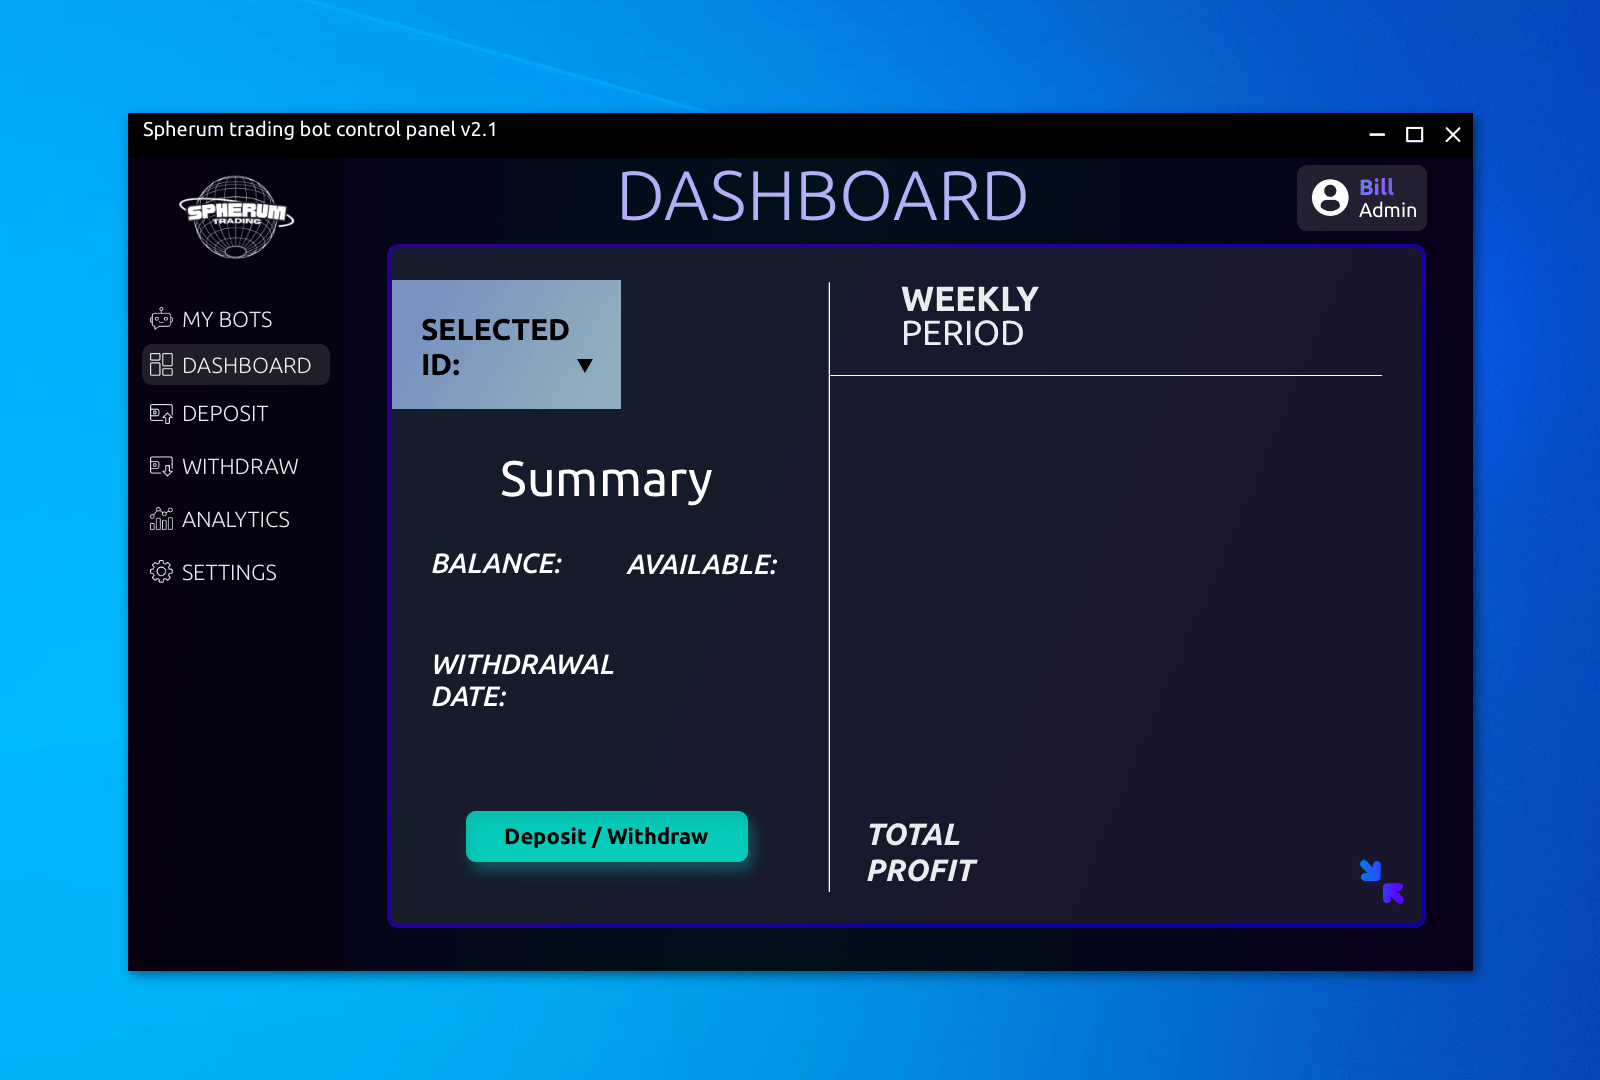
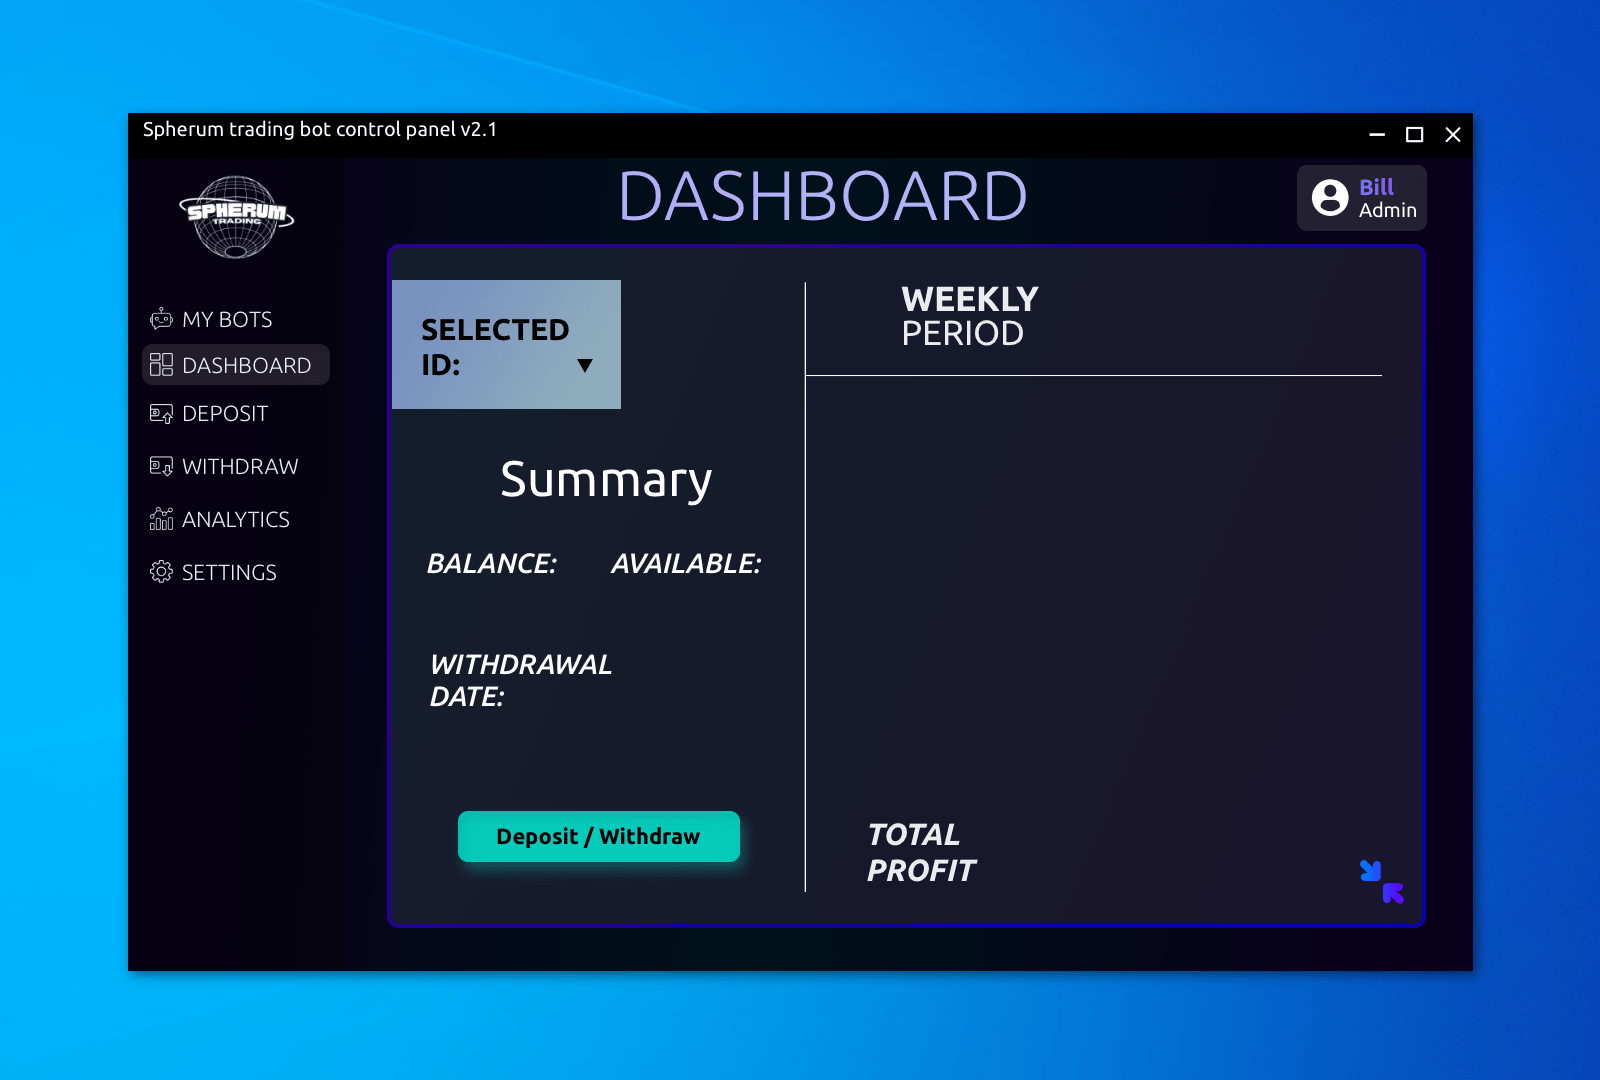
.

diff --git a/styles/bot.css b/styles/bot.css
@@ -76,7 +76,7 @@
 }
 .table {
     top: 370px;
-    left: 810px;
+    left: 805px;
     font-size: 28px;
 }
 table tr td {
@@ -91,7 +91,7 @@ table tr td {
 }
 /* Трейды  */
 .table tr > td:nth-child(2) {
-    padding-right: 20px;
+    padding-right: 30px;
     color: #C08AFF;
     font-weight: 700;
 }
@@ -126,19 +126,19 @@ table tr td {
 }
 .balance {
     top: 535px;
-    left: 385px;
+    left: 380px;
 }
 .available {
     top: 535px;
-    left: 580px;
+    left: 563px;
 }
 .withdraw_date {
     top: 675px;
-    left: 385px;
+    left: 380px;
 }
 .total_profit {
     top: 775px;
-    left: 940px;
+    left: 945px;
     font-size: 60px;
     font-style: italic;
     color: #00FFE3;

diff --git a/pages/bot.html b/pages/bot.html
@@ -111,7 +111,7 @@
                                 <td><button type="button" onclick="clearTableInputs(7)">Очистка</button></td>
                             </tr>
                         </table>
-                        <span>* Пустые ячейки автоматически заполняются нулями</span>
+                        <span>* Пустые ячейки автоматически заменяются нулями</span>
                     </div>
                     
                     <div class="form_right">
